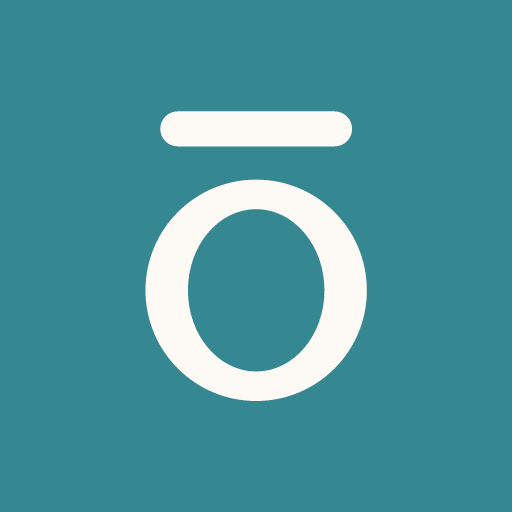
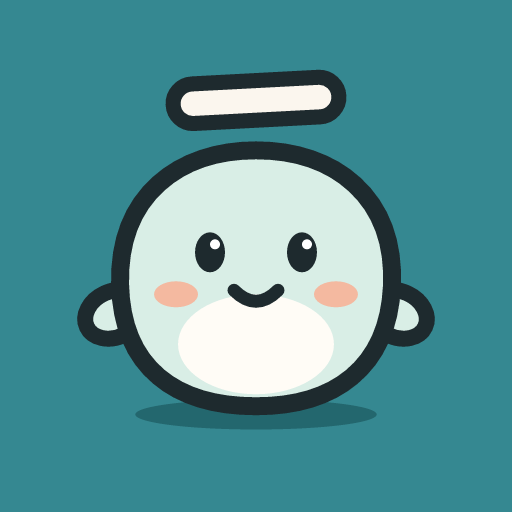
feat: icône de l'app avec Mō (proposition B)
L'icône de l'app passe du ō seul à Mō en entier sur la tuile sarcelle,
le macron crème au-dessus de la tête pour garder le lien avec le logo.

- brand/toko-icon.svg = apps/web/public/icon.svg : dessin B retravaillé
  pour 48 px (traits plus épais, grands yeux, sans reflet).
- favicon.svg : tête de Mō + macron, lisible à 16 px.
- generate-icons.mjs tire tous les PNG de icon.svg : PWA et iOS (pleine
  tuile, cercle sûr 80 %), Android icon, adaptive (cercle sûr 66 dp),
  monochrome (contour seul), splash (Mō sur crème) et favicon.png.
- Logos et mot-symbole (toko-logo*, toko-mark*) inchangés.

Agent: dev
OpenClaw-Session: agent:dev:discord:channel:1553676620571738173
Refs: icone Mō B

diff --git a/apps/web/src/components/shared/brand-logo.tsx b/apps/web/src/components/shared/brand-logo.tsx
@@ -1,15 +1,15 @@
 import { cn } from "@/lib/utils";
 
 // Le signe Tokō : un « ō » — un rond au contre ovale, coiffé d'un macron —
-// dessiné dans un espace 100×100. Identique à favicon.svg, icon.svg et aux
-// images de partage. Source de vérité : /brand.
+// dessiné dans un espace 100×100. Identique aux logos de /brand et aux
+// images de partage (l'icône de l'app, elle, montre Mō). Source : /brand.
 const MARK_PATH =
   "M28.75 10.75h42.5a4.75 4.75 0 0 1 0 9.5h-42.5a4.75 4.75 0 0 1 0-9.5ZM20 59.25a30 30 0 1 0 60 0a30 30 0 1 0-60 0ZM31.5 59.25a18.5 22 0 1 1 37 0a18.5 22 0 1 1-37 0Z";
 
 /**
  * Logo de marque Tokō : le ō crème sur une tuile sarcelle.
- * Couleurs fixées (indépendantes du thème) pour rester identiques au favicon,
- * à l'icône PWA et à l'image OG.
+ * Couleurs fixées (indépendantes du thème) pour rester identiques aux logos
+ * de /brand et à l'image OG.
  */
 export function BrandLogo({ className }: { className?: string }) {
   return (

diff --git a/brand/README.md b/brand/README.md
@@ -24,7 +24,7 @@ lui donne une chaleur que le trait purement géométrique n'a pas.
 | `toko-mark.svg` | Le signe seul, sarcelle. Version principale sur fond clair. |
 | `toko-mark-cream.svg` | Le signe seul, crème. Sur fond sombre ou sarcelle. |
 | `toko-mark-black.svg` | Le signe seul, noir. Impression monochrome, tampons, gravure. |
-| `toko-icon.svg` | Tuile d'application (sarcelle, signe crème). Identique à `apps/web/public/icon.svg`. |
+| `toko-icon.svg` | Icône de l'app : Mō sur la tuile sarcelle, macron crème au-dessus de la tête. Identique à `apps/web/public/icon.svg`. Source de toutes les icônes PNG (web, iOS, Android). |
 | `toko-logo.svg` | Logo horizontal : signe + mot-symbole, sur fond clair. |
 | `toko-logo-dark.svg` | Logo horizontal, tout crème, sur fond sombre. |
 | `toko-logo-black.svg` | Logo horizontal, tout noir. |
@@ -73,24 +73,42 @@ Le signe est dessiné dans un carré de 100 × 100 :
 - rond : diamètre extérieur 60, contre ovale de 37 × 44 ;
 - l'encre occupe 60 × 78,5, centrée dans le carré.
 
-Le chemin SVG est le même dans `brand/`, dans `apps/web/public/*.svg`, dans
-`apps/web/scripts/lib/brand.mjs` (icônes et cartes de partage) et dans
+Le chemin SVG est le même dans `brand/`, dans `apps/web/public/og-image.svg`,
+dans `apps/web/scripts/lib/brand.mjs` (cartes de partage) et dans
 `apps/web/src/components/shared/brand-logo.tsx`. Pour modifier le signe,
 changer ces quatre endroits puis lancer depuis `apps/web` :
 
 ```bash
-pnpm icons:generate   # PNG de l'icône PWA et iOS
 pnpm og:generate      # image de partage du site
 pnpm og:articles      # images de partage des articles
 pnpm og:pages         # images de partage des pages ressources
 ```
 
-## Tuile d'application
+## Icône de l'app
 
-Carré aux coins arrondis à 18,75 % du côté, fond sarcelle, signe crème
-centré. Le signe occupe 72 % du côté (il reste dans la zone sûre des icônes
-masquables). En dessous de 32 px (favicon), il occupe 80 % du côté pour
-rester lisible : c'est la seule différence entre `favicon.svg` et `icon.svg`.
+L'icône montre Mō, la mascotte, en entier : corps menthe, contour encre,
+joues pêche, ventre crème, petits bras, ombre sarcelle foncée. Au-dessus de
+la tête, le macron crème cerclé d'encre : c'est le trait du ō, le lien avec
+le logo. Fond : tuile sarcelle `#358891`, coins arrondis à 18,75 % du côté.
+
+Pour rester lisible à 48 px, le dessin est simplifié par rapport aux
+illustrations de Mō : traits épais, pas de reflet, grands yeux.
+
+- `toko-icon.svg` (= `apps/web/public/icon.svg`) : la source.
+- `apps/web/public/favicon.svg` : en dessous de 32 px, Mō entier ne se lit
+  plus. Le favicon garde la tête, les yeux, les joues, le sourire et le
+  macron (sans contour), en traits plus épais.
+- Les PNG sont tirés de la source par `pnpm icons:generate` (depuis
+  `apps/web`) : `icon-192.png`, `icon-512.png` et `apple-touch-icon.png`
+  (pleine tuile, sans transparence, Mō dans le cercle sûr de 80 % des
+  icônes masquables), et pour Android `icon.png`, `adaptive-icon.png`
+  (Mō seul sur fond transparent, dans le cercle sûr de 66 dp sur 108 ; le
+  fond sarcelle vient de `app.json`), `monochrome-icon.png` (contour seul,
+  pour les icônes à thème), `splash-icon-light.png` (Mō sur le fond crème
+  du démarrage) et `favicon.png`.
+
+Après une modification de `icon.svg` ou `favicon.svg`, copier `icon.svg`
+dans `brand/toko-icon.svg` puis relancer `pnpm icons:generate`.
 
 ## Règles d'usage
 
